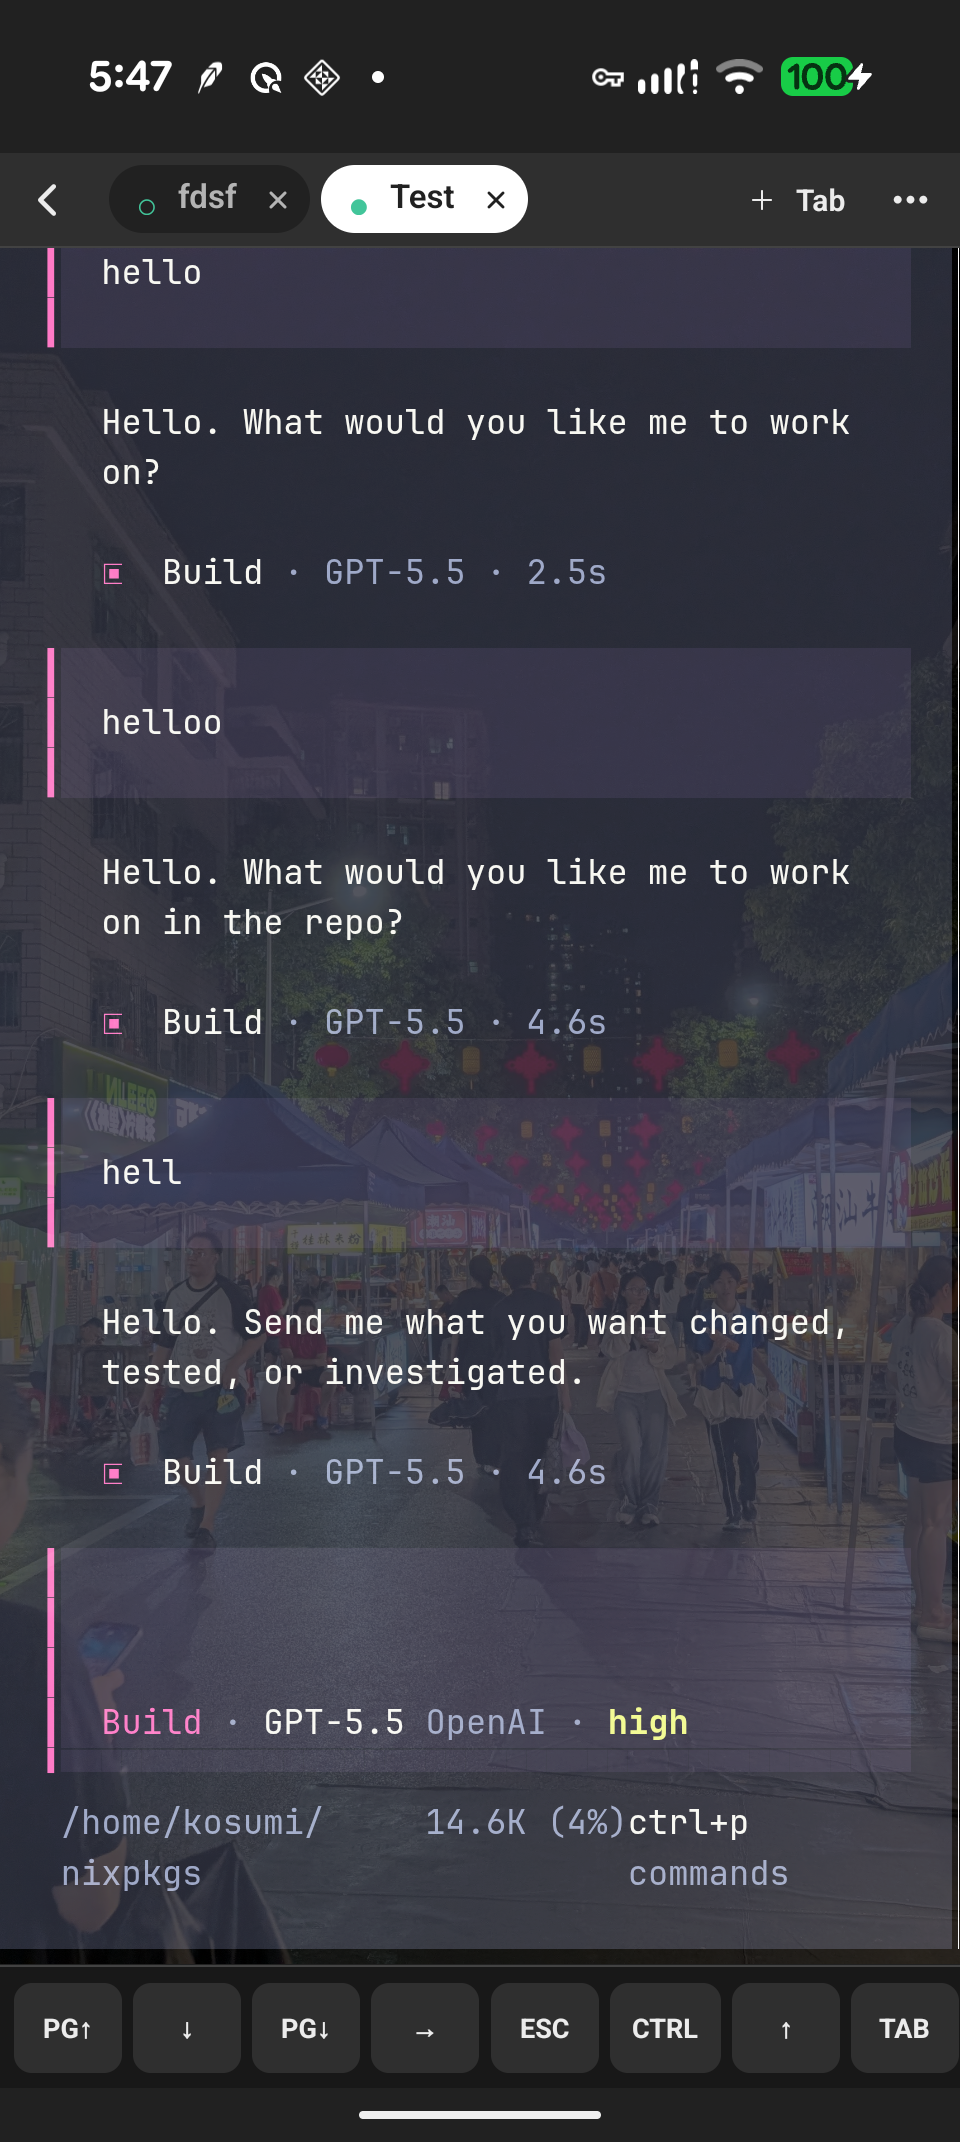
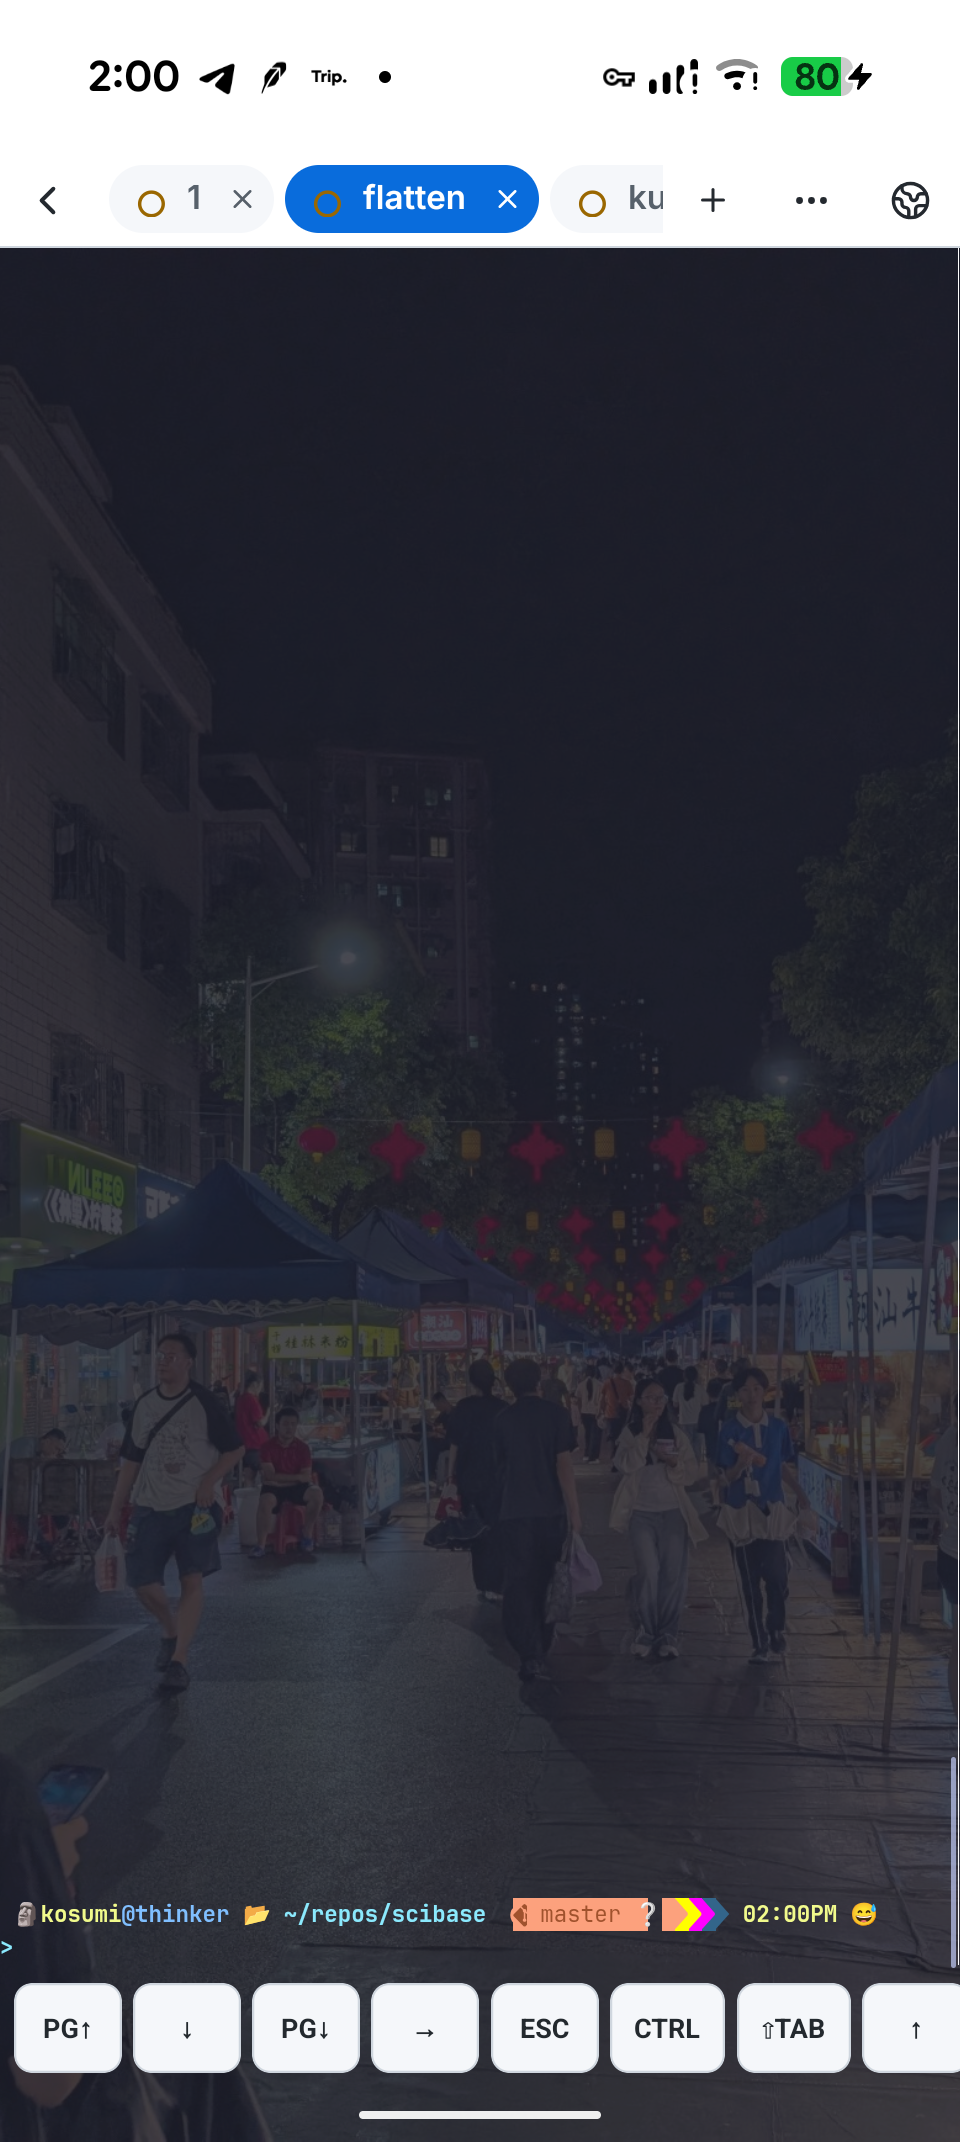
docs: refresh app screenshots

diff --git a/README.md b/README.md
@@ -35,12 +35,12 @@ Whip is not developed, maintained, or endorsed by the Herdr project or its autho
     <td align="center"><strong>Watch the whole herd</strong><br>Merge open hosts into one attention queue, then scope it to a host or space.</td>
   </tr>
   <tr>
-    <td align="center"><img src="assets/screenshots/terminal.png" alt="Whip terminal showing live agent output, tab controls, a scroll indicator, and mobile keys" width="320"></td>
-    <td align="center"><img src="assets/screenshots/settings.png" alt="Whip Settings screen showing notifications, speech, appearance, and terminal preferences" width="320"></td>
+    <td align="center"><img src="assets/screenshots/terminal.png" alt="Whip terminal showing open tabs, the web-link browser action, and mobile keys" width="320"></td>
+    <td align="center"><img src="assets/screenshots/settings.png" alt="Whip More screen showing connection, notification, speech, and security settings" width="320"></td>
   </tr>
   <tr>
-    <td align="center"><strong>Work from anywhere</strong><br>Open a selected pane in the full-width terminal with touch scrolling and mobile controls.</td>
-    <td align="center"><strong>Tune your workflow</strong><br>Configure agent alerts, speech, appearance, font size, and scrollback.</td>
+    <td align="center"><strong>Work from anywhere</strong><br>Open a selected pane in the full-width terminal, then collect its web links in one tap.</td>
+    <td align="center"><strong>Tune your workflow</strong><br>Configure agent alerts, speech, security, appearance, and terminal behavior.</td>
   </tr>
 </table>
 
@@ -54,6 +54,7 @@ Screenshots were captured from the current Whip Android build on a Pixel 9 Pro.
 - Create, focus, rename, split, zoom, inspect, and close space resources.
 - Launch agents, send direct prompts, and send commands or special keys to a pane.
 - Attach to any selected pane through an immersive, xterm-compatible terminal.
+- Scan terminal scrollback for web links and open local or LAN services in the in-app browser through an on-demand SSH tunnel.
 - Use ANSI colors, modifier keys, touch scrolling, Page Up/Down, a position indicator, double-tap Tab, live resizing, and configurable terminal appearance.
 - Receive local notifications, vibration, and optional speech when an agent becomes blocked or finishes.
 - Save password or private-key credentials with Android Keystore and encrypted, device-authenticated Block Store recovery.
@@ -97,7 +98,7 @@ Whip accepts Herdr releases that report protocol 17 and rejects other protocol v
 
 Whip connects directly from Android to the configured SSH host. There is no Whip-operated relay service, and Herdr remains bound to the host as usual.
 
-While Whip is foregrounded, native screens receive workspace, tab, pane, and agent state from Herdr. Actions map to the existing Herdr CLI surfaces. Opening a pane terminal uses Herdr's remote client bridge over the same SSH connection, with live input, resize, and render frames.
+While Whip is foregrounded, native screens receive workspace, tab, pane, and agent state from Herdr. Actions map to the existing Herdr CLI surfaces. Opening a pane terminal uses Herdr's remote client bridge over the same SSH connection, with live input, resize, and render frames. Links found in terminal scrollback open directly when they are public; loopback and private-network addresses are forwarded through the active SSH connection first.
 
 The current SSH dependency does not pin host keys. Use Whip only over a trusted network until known-host verification is implemented. See [SECURITY.md](SECURITY.md) for the current security posture and [PRIVACY.md](PRIVACY.md) for the data flow and on-device storage details.
 
